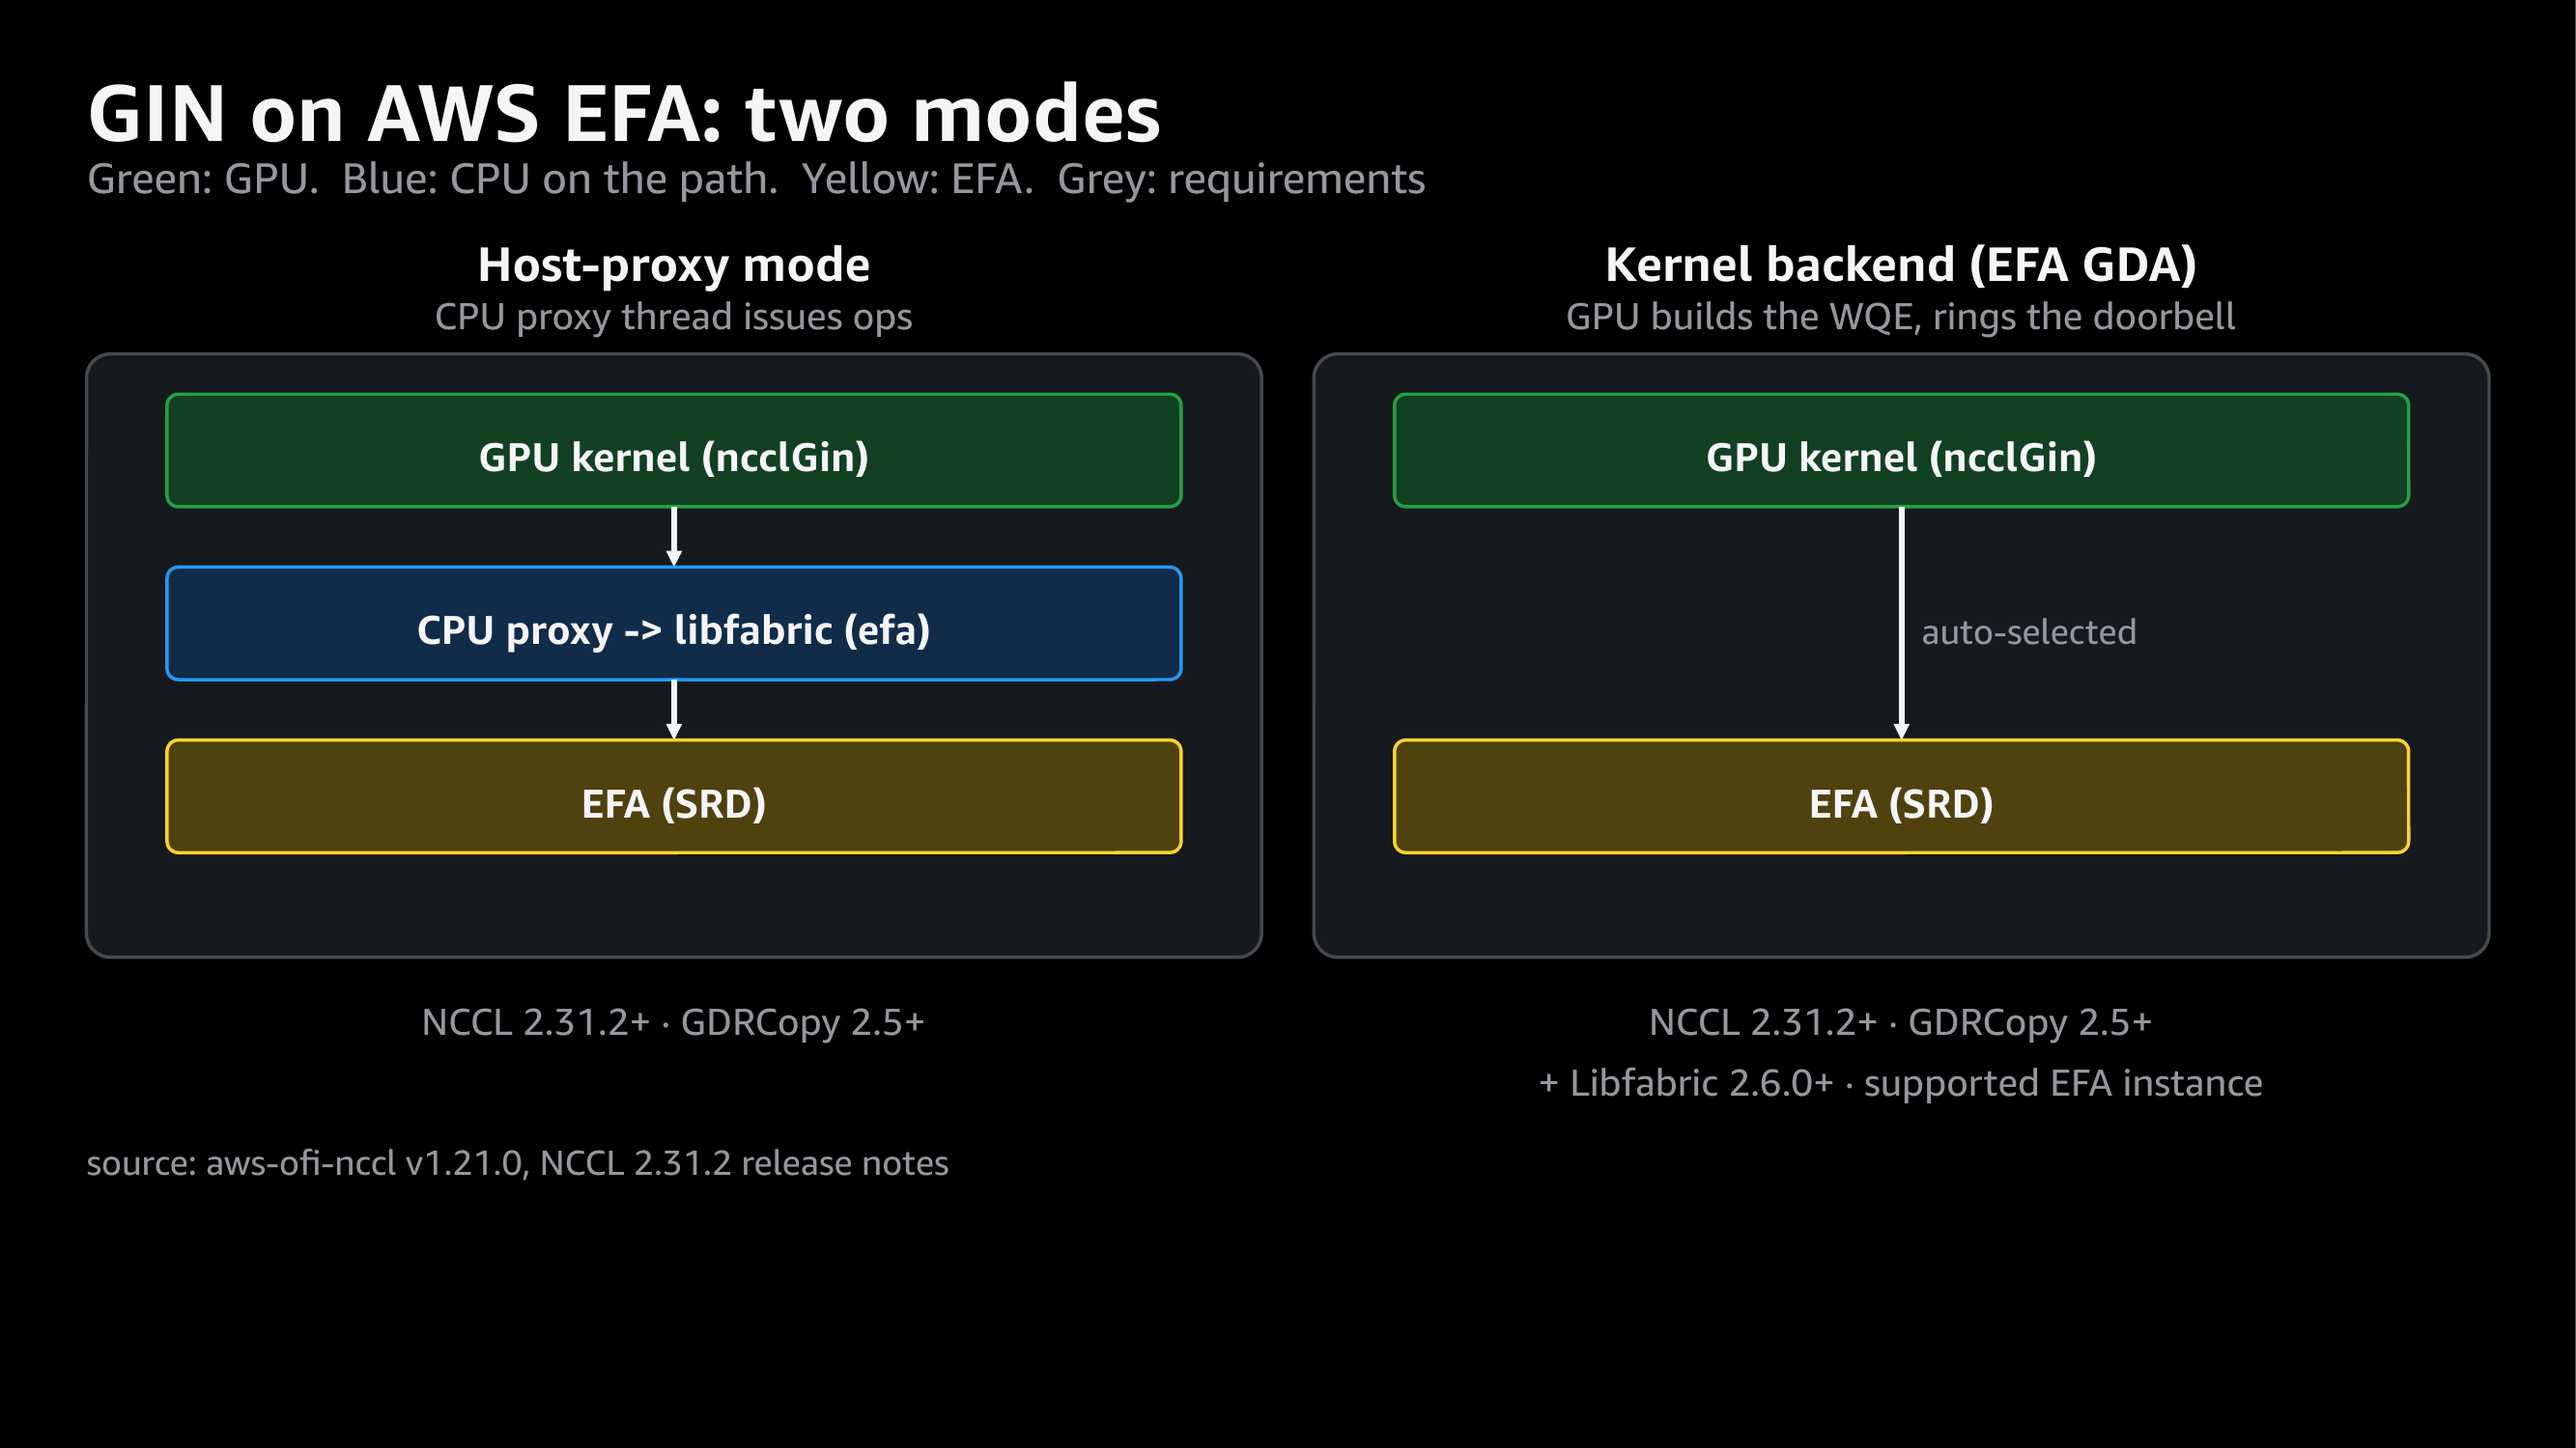
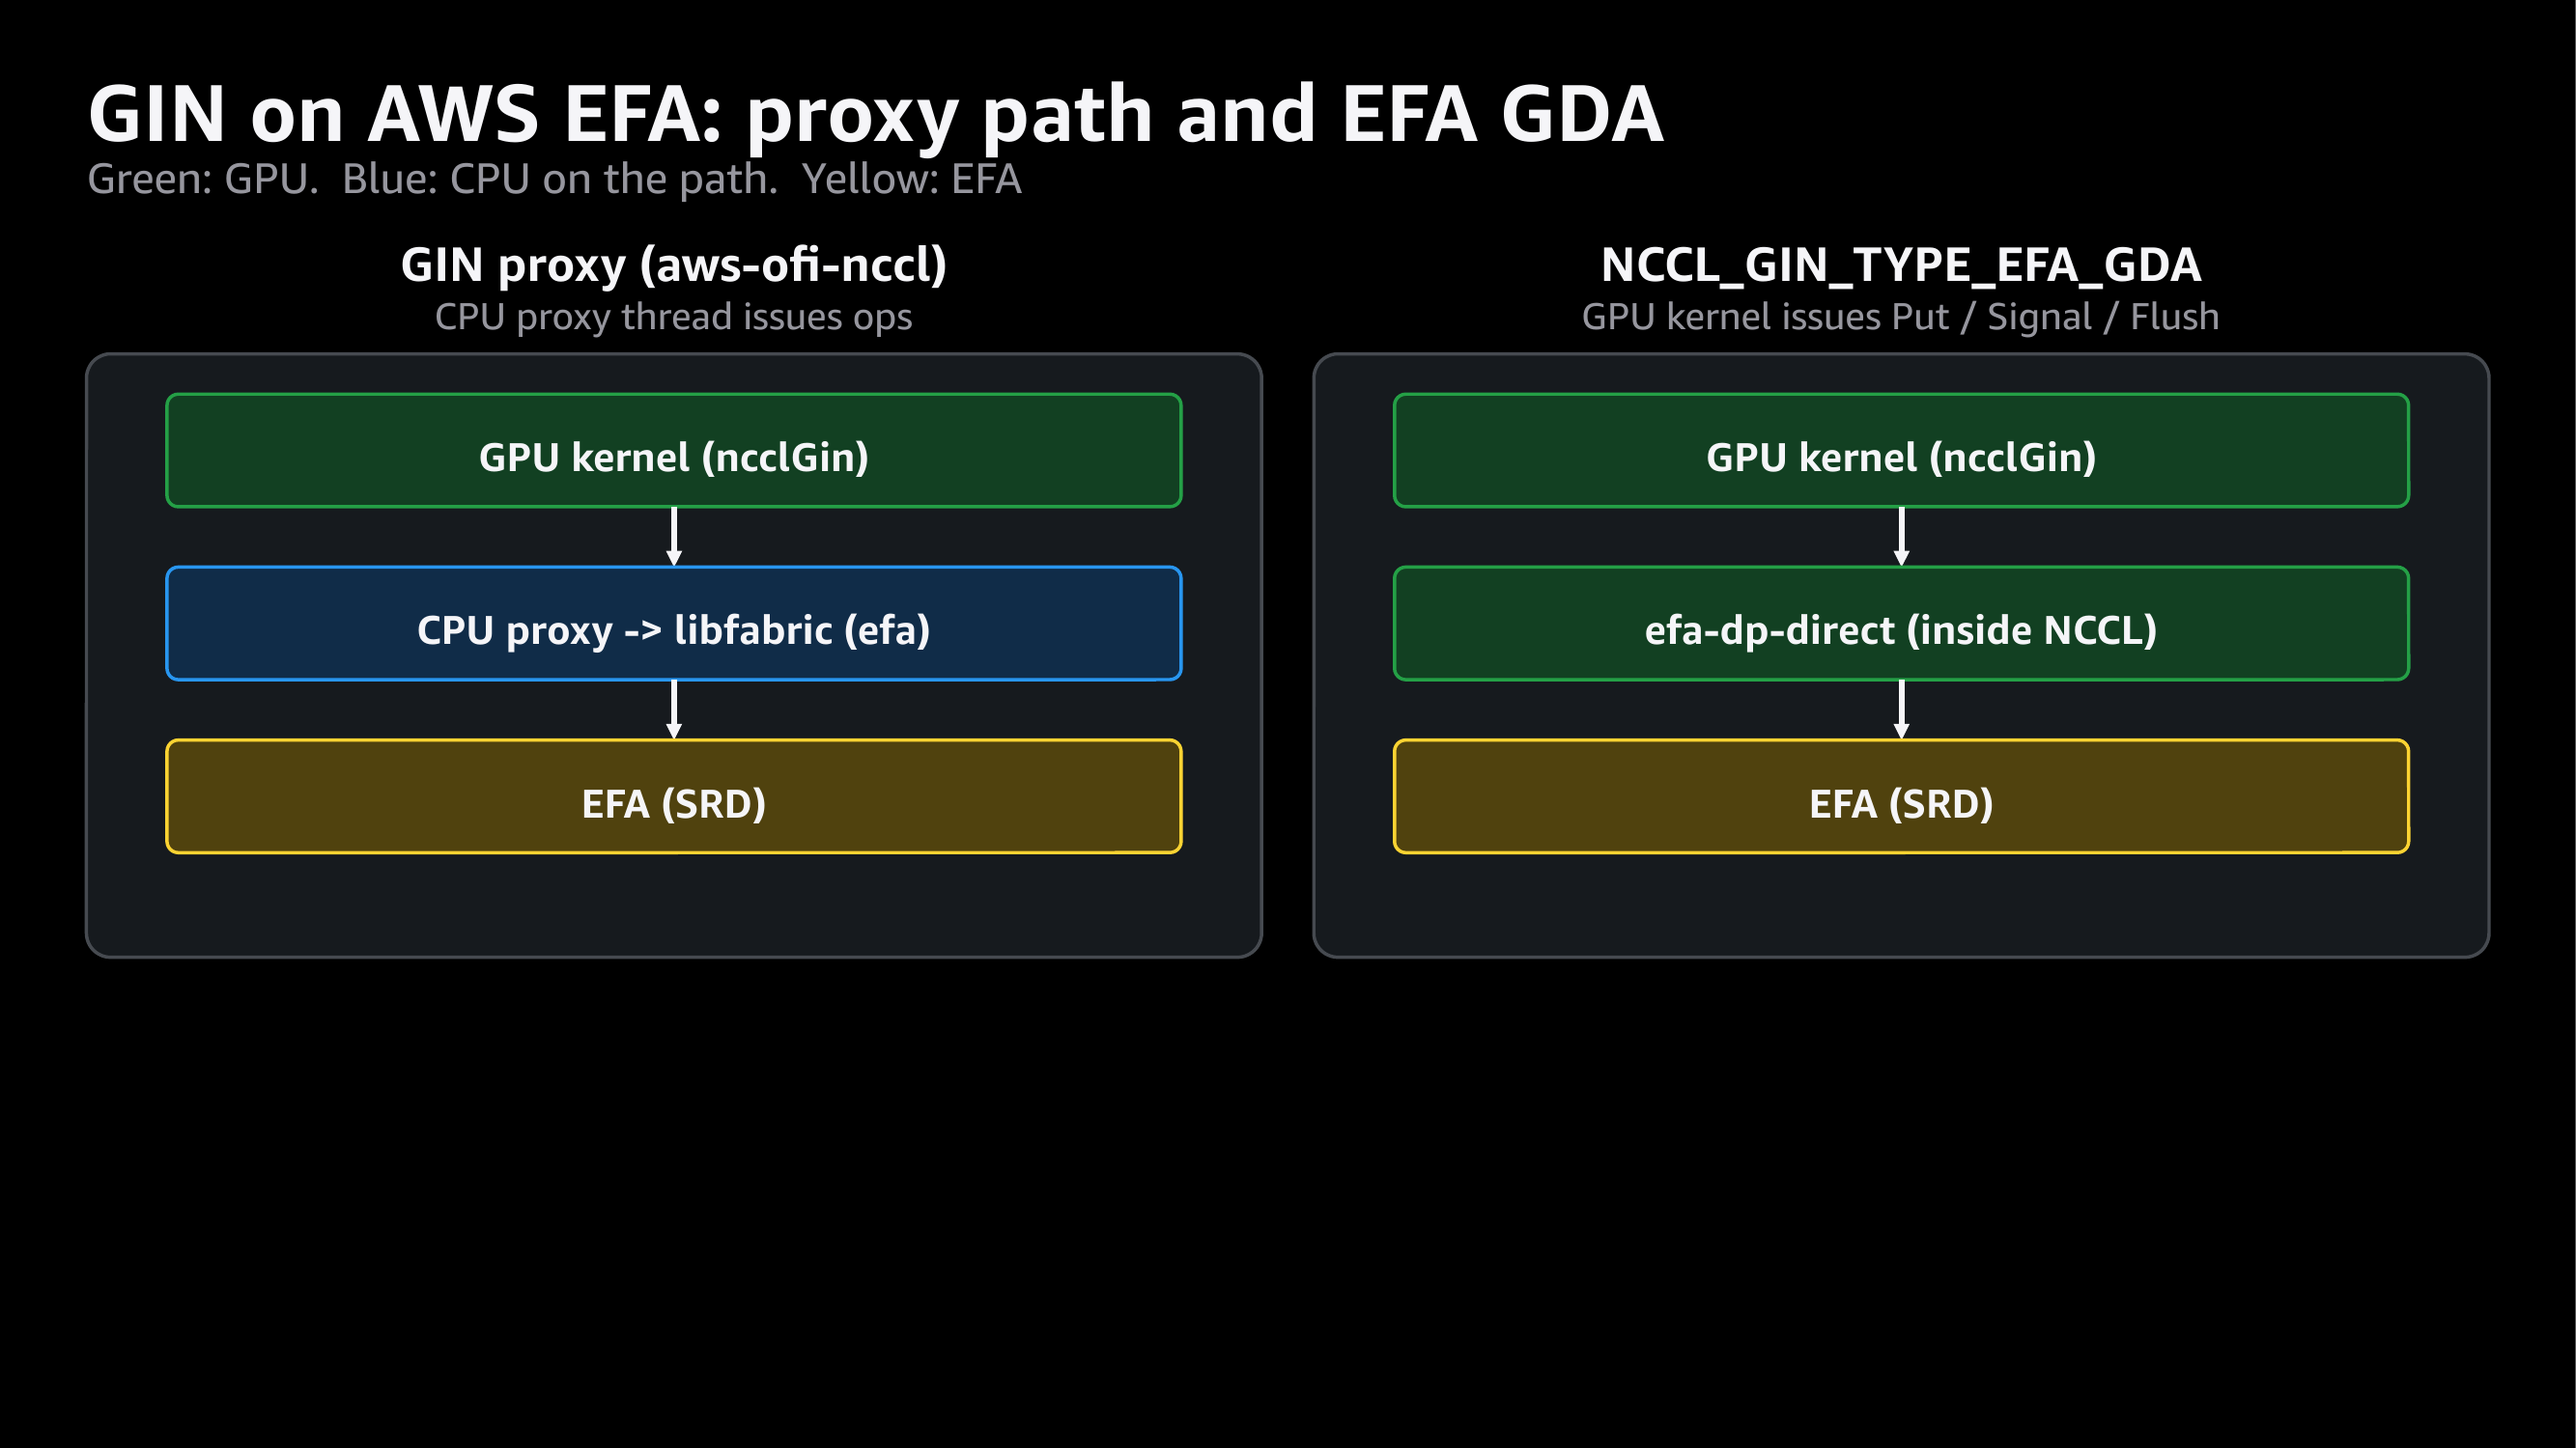
figures for zenn article 8d7fea5568e638: describe EFA GDA per the roadmap

diff --git a/zenn/articles/8d7fea5568e638/source/gen_gin_pptx.py b/zenn/articles/8d7fea5568e638/source/gen_gin_pptx.py
@@ -68,7 +68,7 @@ box(s, 43, 290, 1194, 200, CHIP, stroke=EDGE, radius=0.04)
 label(s, 63, 296, 400, 30, "GIN backend", size=19, bold=True, align="left")
 box(s, 73, 330, 360, 130, GRN_DK, stroke=GRN, body="GDAKI\nWQE + doorbell\nIB / RoCE, ConnectX-6 Dx+", size=15)
 box(s, 459, 330, 360, 130, LINK_DK, stroke=LINK, body="Proxy\n64-byte descriptor, CPU proxy\nany RDMA NIC", size=15)
-box(s, 845, 330, 362, 130, GRN_DK, stroke=GRN, body="EFA GDA\nWQE + doorbell\nEFA, NCCL 2.31.2+", size=15)
+box(s, 845, 330, 362, 130, GRN_DK, stroke=GRN, body="EFA GDA\nWQE + doorbell\nEFA, NCCL 2.31", size=15)
 for cx, col in ((253, WHITE), (639, LINK), (1026, WHITE)):
     arrow(s, cx, 230, cx, 330, color=col)
 for cx, col in ((253, WHITE), (639, LINK), (1026, WHITE)):
@@ -90,10 +90,10 @@ label(s, 43, 590, 1190, 30, "Green: GIN GDAKI (GPU path).  Blue: GIN Proxy (CPU 
 
 # ------------------------------------------------------------------ 3. GIN on EFA
 s = d.slide().s
-title(s, "GIN on AWS EFA: two modes",
-      "Green: GPU.  Blue: CPU on the path.  Yellow: EFA.  Grey: requirements")
-for x, head_, sub in [(43, "Host-proxy mode", "CPU proxy thread issues ops"),
-                      (653, "Kernel backend (EFA GDA)", "GPU builds the WQE, rings the doorbell")]:
+title(s, "GIN on AWS EFA: proxy path and EFA GDA",
+      "Green: GPU.  Blue: CPU on the path.  Yellow: EFA")
+for x, head_, sub in [(43, "GIN proxy (aws-ofi-nccl)", "CPU proxy thread issues ops"),
+                      (653, "NCCL_GIN_TYPE_EFA_GDA", "GPU kernel issues Put / Signal / Flush")]:
     label(s, x, 112, 584, 30, head_, size=18, bold=True)
     label(s, x, 142, 584, 24, sub, size=14, color=MUTED)
     box(s, x, 176, 584, 300, CHIP, stroke=EDGE, radius=0.04)
@@ -103,13 +103,10 @@ box(s, 83, 282, 504, 56, LINK_DK, stroke=LINK, body="CPU proxy -> libfabric (efa
 arrow(s, 335, 338, 335, 368)
 box(s, 83, 368, 504, 56, YEL_DK, stroke=YEL, body="EFA (SRD)", size=15)
 box(s, 693, 196, 504, 56, GRN_DK, stroke=GRN, body="GPU kernel (ncclGin)", size=15)
-arrow(s, 945, 252, 945, 368)
-label(s, 955, 296, 260, 30, "auto-selected", size=13, color=MUTED, align="left")
+arrow(s, 945, 252, 945, 282)
+box(s, 693, 282, 504, 56, GRN_DK, stroke=GRN, body="efa-dp-direct (inside NCCL)", size=15)
+arrow(s, 945, 338, 945, 368)
 box(s, 693, 368, 504, 56, YEL_DK, stroke=YEL, body="EFA (SRD)", size=15)
-label(s, 43, 490, 584, 30, "NCCL 2.31.2+ · GDRCopy 2.5+", size=14, color=MUTED)
-label(s, 653, 490, 584, 30, "NCCL 2.31.2+ · GDRCopy 2.5+", size=14, color=MUTED)
-label(s, 653, 520, 584, 30, "+ Libfabric 2.6.0+ · supported EFA instance", size=14, color=MUTED)
-label(s, 43, 560, 1190, 30, "source: aws-ofi-nccl v1.21.0, NCCL 2.31.2 release notes", size=13, color=MUTED, align="left")
 d.save(OUT)
 # ZN-24: テンプレートのロゴ、著作権表示、ヘッダー、フッターを必ず消してから使う
 sys.path.insert(0, "/Users/akazawt/works/data-science/claudecode/.claude/skills/review-html/packs/zenn-doc/templates")
